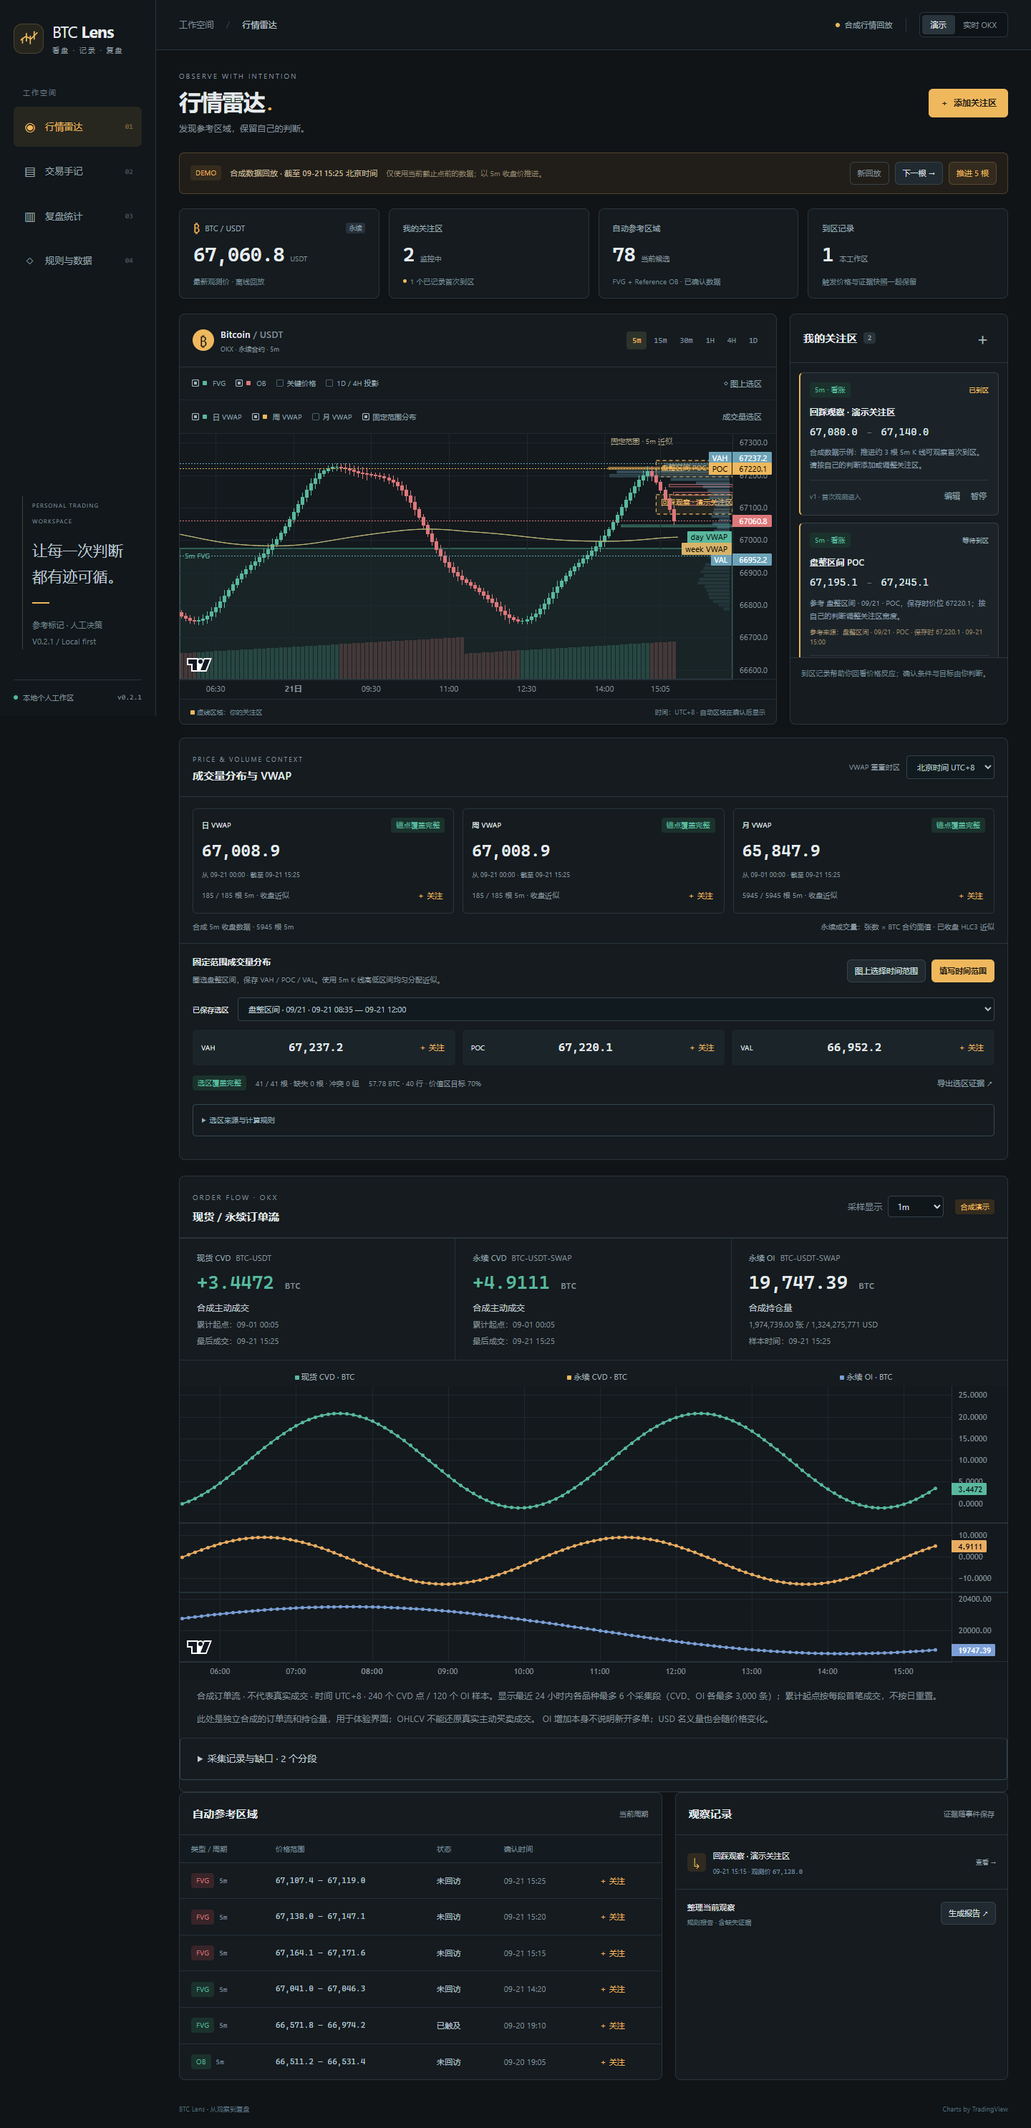
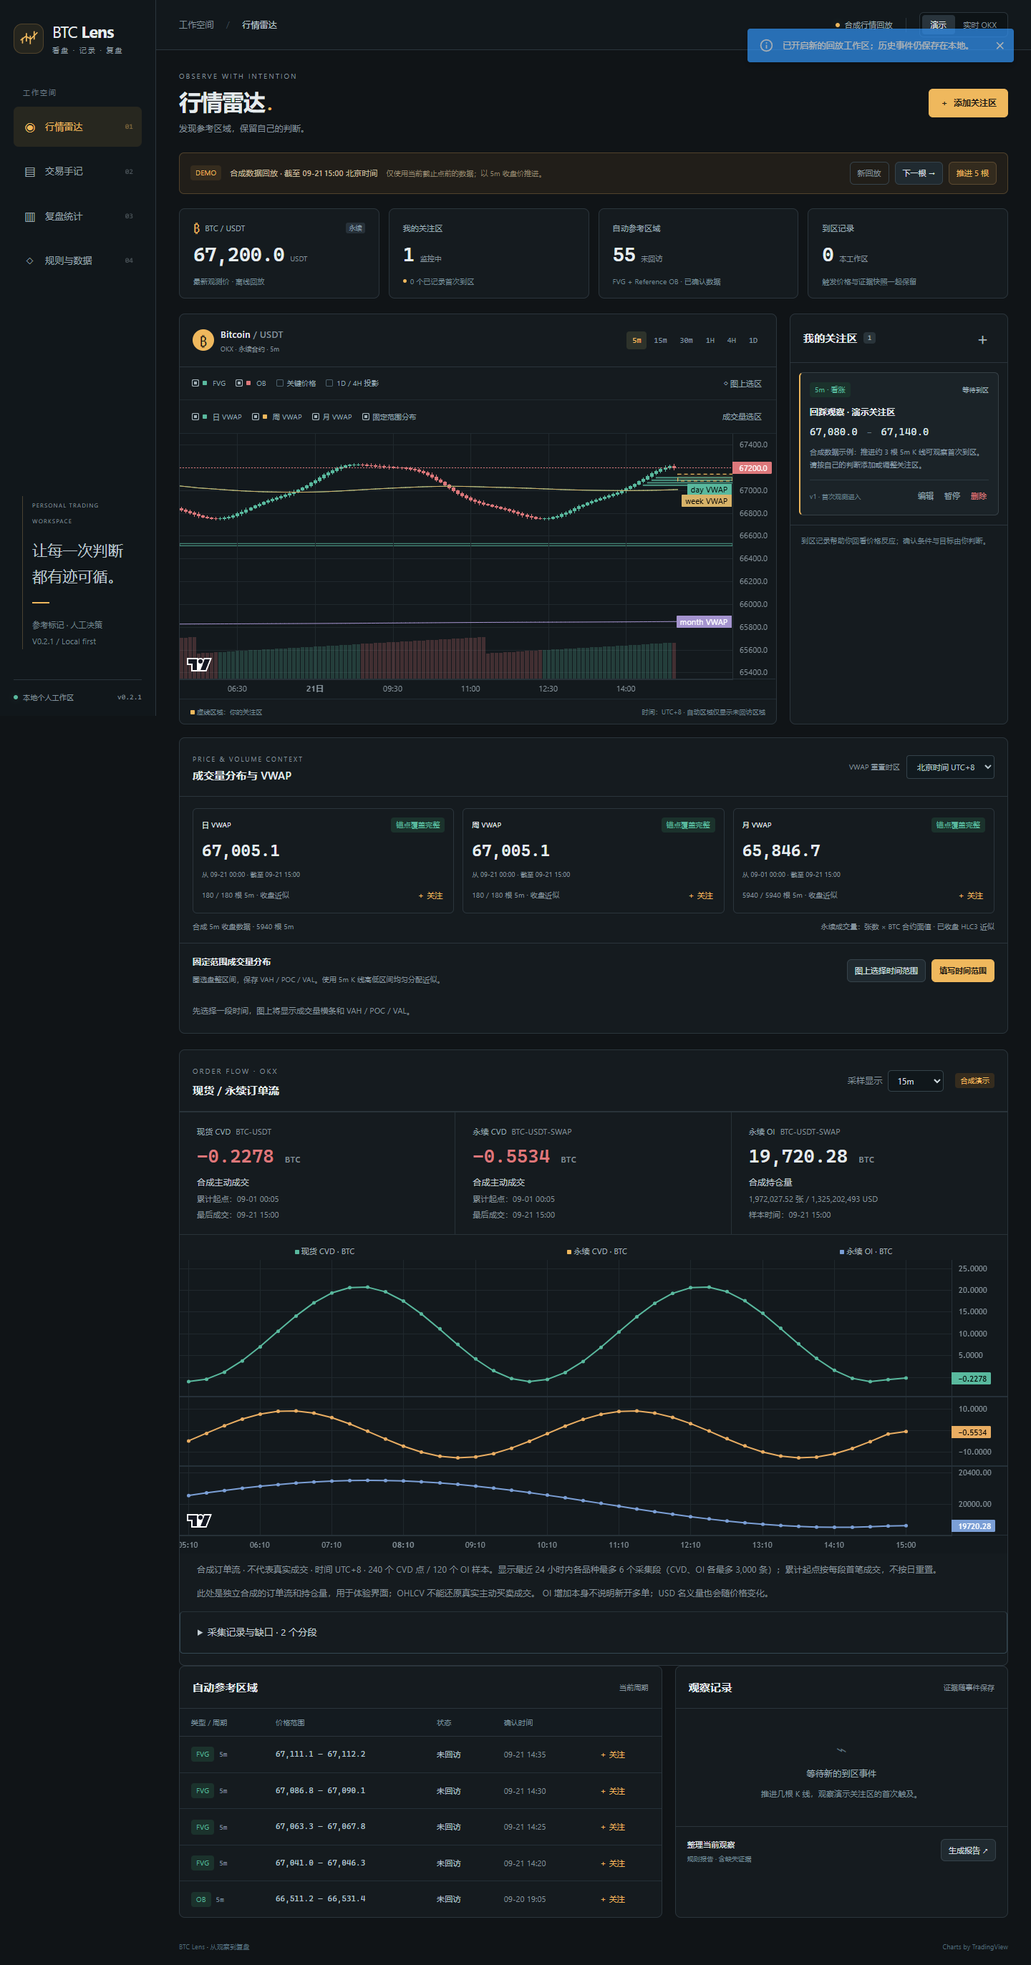
Hide used OB/FVG zones and add persistent watch deletion

diff --git a/tests/BtcLens.Tests/PersistenceTests.cs b/tests/BtcLens.Tests/PersistenceTests.cs
@@ -40,6 +40,64 @@ public sealed class PersistenceTests : IDisposable
         Assert.Equal(savedJson,s.FindAlert(a.Id)!.EvidenceJson); Assert.Equal(1,s.FindAlert(a.Id)!.Revision);
         await engine.NewReplayAsync(); Assert.NotEqual(oldScope,engine.View.Scope); Assert.Empty(s.Alerts(engine.View.Scope)); Assert.NotNull(s.FindAlert(a.Id));
     }
+    [Fact] public async Task DeletedWatchStopsMonitoringAndDoesNotReturnAfterRestart()
+    {
+        string scope;
+        using (var s = new LensStore(FilePath))
+        {
+            var engine = new MarketEngine(s, new OkxClient(new HttpClient()));
+            scope = engine.View.Scope; var watch = Assert.Single(s.Watches(scope));
+            await engine.SwitchModeAsync("live");
+            engine = new MarketEngine(s, new OkxClient(new HttpClient()));
+            await engine.SwitchModeAsync("demo");
+            await engine.DeleteWatchAsync(watch.Id, watch.Current.Revision, scope);
+            await engine.StepAsync(10);
+            Assert.Empty(s.Watches(scope)); Assert.Empty(s.Alerts(scope));
+            await Assert.ThrowsAsync<ArgumentException>(() => engine.SaveWatchAsync(watch.Id, 1, watch.Current));
+        }
+        using (var s = new LensStore(FilePath))
+        {
+            var engine = new MarketEngine(s, new OkxClient(new HttpClient()));
+            Assert.Equal(scope, engine.View.Scope); Assert.Empty(s.Watches(scope));
+            await engine.NewReplayAsync(); Assert.Single(s.Watches(engine.View.Scope));
+        }
+    }
+    [Fact] public async Task DeletionKeepsEventAndLinkedTradeAndRejectsLateWrites()
+    {
+        string scope, eventId, eventJson, tradeJson;
+        using (var s = new LensStore(FilePath))
+        {
+            var engine = new MarketEngine(s, new OkxClient(new HttpClient())); scope = engine.View.Scope;
+            var watch = Assert.Single(s.Watches(scope)); await engine.StepAsync(5);
+            var alert = Assert.Single(s.Alerts(scope)); eventId = alert.Id; eventJson = JsonCodec.Write(alert);
+            var trade = TradeTests.Example() with { Id = "linked", Mode = "demo", AlertId = eventId, EntrySnapshotJson = alert.EvidenceJson };
+            s.SaveTrade(trade); tradeJson = JsonCodec.Write(trade);
+            await engine.DeleteWatchAsync(watch.Id, 1, scope);
+            Assert.Empty(s.Watches(scope));
+            Assert.Throws<ArgumentException>(() => s.SaveWatch(watch));
+            Assert.False(s.RecordAlert(watch with { Triggered = true }, alert with { Id = eventId + ":late" }));
+            Assert.Single(s.Alerts(scope));
+        }
+        using (var s = new LensStore(FilePath))
+        {
+            var engine = new MarketEngine(s, new OkxClient(new HttpClient()));
+            Assert.Empty(s.Watches(scope));
+            Assert.Equal(eventJson, JsonCodec.Write(s.FindAlert(eventId)));
+            Assert.Equal(tradeJson, JsonCodec.Write(s.FindTrade("linked")));
+        }
+    }
+    [Fact] public async Task DeleteRejectsChangedRevisionAndDifferentWorkspace()
+    {
+        using var s = new LensStore(FilePath); var engine = new MarketEngine(s, new OkxClient(new HttpClient()));
+        var scope = engine.View.Scope; var watch = Assert.Single(s.Watches(scope));
+        await engine.SaveWatchAsync(watch.Id, 1, watch.Current with { Notes = "changed in another tab" });
+        await Assert.ThrowsAsync<ArgumentException>(() => engine.DeleteWatchAsync(watch.Id, 1, scope));
+        Assert.False(s.DeleteWatch("live", watch.Id, 2, DateTimeOffset.UtcNow));
+        Assert.Equal(2, Assert.Single(s.Watches(scope)).Current.Revision);
+        await engine.NewReplayAsync();
+        await Assert.ThrowsAsync<ArgumentException>(() => engine.DeleteWatchAsync(watch.Id, 2, scope));
+        Assert.Single(s.Watches(scope)); Assert.Single(s.Watches(engine.View.Scope));
+    }
     public void Dispose()
     {
         // Only remove the literal unique directory created by this test instance.

diff --git a/src/BtcLens.Infrastructure/LensStore.cs b/src/BtcLens.Infrastructure/LensStore.cs
@@ -28,8 +28,28 @@ public sealed class LensStore : ILensStore, IDisposable
     }
     public string? GetSetting(string key) { lock (sync) return db.Queryable<SettingRow>().InSingle(key)?.Value; }
     public void SetSetting(string key, string value) { lock (sync) db.Storageable(new SettingRow { Key = key, Value = value }).ExecuteCommand(); }
-    public WatchZone[] Watches(string scope) { lock (sync) return db.Queryable<WatchRow>().Where(x => x.Scope == scope).ToList().Select(x => JsonCodec.Read<WatchZone>(x.Json)).OrderByDescending(x => x.Current.CreatedAt).ToArray(); }
-    public void SaveWatch(WatchZone zone) { lock (sync) db.Storageable(Watch(zone)).ExecuteCommand(); }
+    public WatchZone[] Watches(string scope, bool includeDeleted = false) { lock (sync) return db.Queryable<WatchRow>().Where(x => x.Scope == scope).ToList().Select(x => JsonCodec.Read<WatchZone>(x.Json)).Where(x => includeDeleted || x.DeletedAt is null).OrderByDescending(x => x.Current.CreatedAt).ToArray(); }
+    public void SaveWatch(WatchZone zone)
+    {
+        lock (sync)
+        {
+            if (db.Queryable<WatchRow>().InSingle(zone.Id) is { } row && JsonCodec.Read<WatchZone>(row.Json).DeletedAt is not null)
+                throw new ArgumentException("关注区已删除，请重新建立关注区。");
+            db.Storageable(Watch(zone)).ExecuteCommand();
+        }
+    }
+    public bool DeleteWatch(string scope, string id, int expectedRevision, DateTimeOffset deletedAt)
+    {
+        lock (sync)
+        {
+            var row = db.Queryable<WatchRow>().InSingle(id);
+            if (row is null || row.Scope != scope) return false;
+            var zone = JsonCodec.Read<WatchZone>(row.Json);
+            if (zone.DeletedAt is not null || zone.Current.Revision != expectedRevision) return false;
+            db.Updateable(Watch(zone with { Enabled = false, LastSample = null, DeletedAt = deletedAt })).ExecuteCommand();
+            return true;
+        }
+    }
     public AlertEvent[] Alerts(string scope) { lock (sync) return db.Queryable<AlertRow>().Where(x => x.Scope == scope).OrderByDescending(x => x.Timestamp).Take(200).ToList().Select(x => JsonCodec.Read<AlertEvent>(x.Json)).ToArray(); }
     public AlertEvent? FindAlert(string id) { lock (sync) { var row = db.Queryable<AlertRow>().InSingle(id); return row is null ? null : JsonCodec.Read<AlertEvent>(row.Json); } }
     public bool RecordAlert(WatchZone updated, AlertEvent alert)
@@ -39,7 +59,9 @@ public sealed class LensStore : ILensStore, IDisposable
             db.Ado.BeginTran();
             try
             {
-                if (db.Queryable<AlertRow>().InSingle(alert.Id) is not null) { db.Ado.CommitTran(); return false; }
+                if (db.Queryable<AlertRow>().InSingle(alert.Id) is not null ||
+                    db.Queryable<WatchRow>().InSingle(updated.Id) is { } row && JsonCodec.Read<WatchZone>(row.Json).DeletedAt is not null)
+                { db.Ado.CommitTran(); return false; }
                 db.Insertable(new AlertRow { Id = alert.Id, Scope = alert.Scope, Timestamp = alert.CreatedAt.ToUnixTimeMilliseconds(), Json = JsonCodec.Write(alert) }).ExecuteCommand();
                 db.Storageable(Watch(updated)).ExecuteCommand();
                 db.Ado.CommitTran(); return true;

diff --git a/tests/BtcLens.Tests/IndicatorTests.cs b/tests/BtcLens.Tests/IndicatorTests.cs
@@ -1,5 +1,6 @@
 using BtcLens.Core;
 using BtcLens.Infrastructure;
+using BtcLens.Application;
 
 namespace BtcLens.Tests;
 public sealed class IndicatorTests
@@ -34,6 +35,24 @@ public sealed class IndicatorTests
         Assert.Equal(ZoneLife.Touched, touched.Life);
         var filled = Assert.Single(Indicators.Detect([.. bars, Bar(3, 118, 119, 105, 109)], bars[^1].CloseTime + 300_000), z => z.KnownAt == bars[^1].CloseTime);
         Assert.Equal(ZoneLife.Filled, filled.Life);
+    }
+    [Theory]
+    [InlineData(ZoneKind.Fvg)]
+    [InlineData(ZoneKind.OrderBlock)]
+    public void ReportDropsUsedZoneOnlyAfterReturnBarClosesAndRetainsLifecycleEvidence(ZoneKind kind)
+    {
+        Candle[] bars = kind == ZoneKind.Fvg
+            ? [.. FvgBars(), Bar(3, 118, 119, 108, 112)]
+            : [Bar(0,100,104,96,101), Bar(1,101,106,98,104), Bar(2,104,110,100,105),
+               Bar(3,105,107,99,102), Bar(4,102,106,98,103), Bar(5,103,108,97,101),
+               Bar(6,101,112,100,111), Bar(7,111,112,107,111)];
+        var before = MarketView.Empty with { Cutoff = bars[^1].CloseTime - 1, Zones = Indicators.Detect(bars, bars[^1].CloseTime - 1, 2) };
+        var zone = Assert.Single(before.Zones, z => z.Kind == kind);
+        Assert.Equal(ZoneLife.Active, zone.Life);
+        Assert.Contains(AnalysisReport.Build(before, []).Observations, o => o.Contains(zone.Id));
+        var after = before with { Cutoff = bars[^1].CloseTime, Zones = Indicators.Detect(bars, bars[^1].CloseTime, 2) };
+        Assert.Equal(ZoneLife.Touched, Assert.Single(after.Zones, z => z.Id == zone.Id).Life);
+        Assert.DoesNotContain(AnalysisReport.Build(after, []).Observations, o => o.Contains(zone.Id));
     }
     [Fact] public void GapMakesExistingLifecycleUnknownAndDoesNotCreateBridgedFvg()
     {

diff --git a/src/BtcLens.Application/Contracts.cs b/src/BtcLens.Application/Contracts.cs
@@ -6,8 +6,9 @@ public interface ILensStore
 {
     string? GetSetting(string key);
     void SetSetting(string key, string value);
-    WatchZone[] Watches(string scope);
+    WatchZone[] Watches(string scope, bool includeDeleted = false);
     void SaveWatch(WatchZone zone);
+    bool DeleteWatch(string scope, string id, int expectedRevision, DateTimeOffset deletedAt);
     AlertEvent[] Alerts(string scope);
     AlertEvent? FindAlert(string id);
     bool RecordAlert(WatchZone updated, AlertEvent alert);
@@ -44,7 +45,7 @@ public static class AnalysisReport
         if (market.Quote is not null) facts.Add($"BTC-USDT-SWAP 最新观测价 {market.Quote.Price:0.0}；价格时间 {DateTimeOffset.FromUnixTimeMilliseconds(market.Quote.Timestamp):O}。");
         foreach (var w in watches.Where(w => w.Enabled).Take(8))
             facts.Add($"关注区「{w.Current.Name}」{w.Current.Timeframe}，{w.Current.Lower:0.0}–{w.Current.Upper:0.0}，版本 {w.Current.Revision}；{(w.Triggered ? "已记录首次到区" : "等待新的到区事件")}。");
-        foreach (var z in market.Zones.Where(z => z.Life is ZoneLife.Active or ZoneLife.Touched).OrderByDescending(z => z.KnownAt).Take(6))
+        foreach (var z in market.Zones.Where(z => z.Life == ZoneLife.Active).OrderByDescending(z => z.KnownAt).Take(6))
             facts.Add($"{z.Timeframe} {z.Kind} {z.Bias}，{z.Lower:0.0}–{z.Upper:0.0}，确认时间 {DateTimeOffset.FromUnixTimeMilliseconds(z.KnownAt):O}，算法 {z.Algorithm}；证据 ID {z.Id}。");
         var missing = new List<string> { "主目标及其来源资格尚未人工确认。", "Sweep、SFP 与有效 MSB 的个人规则尚待逐项定义。" };
         foreach (var v in market.PriceContext.Vwaps)

diff --git a/src/BtcLens.Core/Watch.cs b/src/BtcLens.Core/Watch.cs
@@ -6,7 +6,10 @@ public sealed record WatchVersion(int Revision, string Name, decimal Lower, deci
     public PriceReference? PriceReference { get; init; }
 }
 public sealed record WatchZone(string Id, string Scope, bool Enabled, bool Triggered,
-    WatchVersion Current, WatchVersion[] History, PriceSample? LastSample = null);
+    WatchVersion Current, WatchVersion[] History, PriceSample? LastSample = null)
+{
+    public DateTimeOffset? DeletedAt { get; init; }
+}
 public sealed record AlertEvent(string Id, string Scope, string WatchId, int Revision,
     DateTimeOffset CreatedAt, decimal Price, string Transport, WatchVersion Zone,
     string Summary, string EvidenceJson);
@@ -24,7 +27,7 @@ public static class WatchRules
     public static bool Inside(WatchVersion z, decimal price) => price >= z.Lower && price <= z.Upper;
     public static bool Entered(WatchZone z, PriceSample current, long now, bool continuity, long maximumSampleGap = 30_000)
     {
-        if (!z.Enabled || z.Triggered || !continuity || current.Price <= 0 || current.Timestamp > now + 5000 || now - current.Timestamp > 30_000) return false;
+        if (z.DeletedAt is not null || !z.Enabled || z.Triggered || !continuity || current.Price <= 0 || current.Timestamp > now + 5000 || now - current.Timestamp > 30_000) return false;
         var previous = z.LastSample;
         if (previous is null || previous.Timestamp < z.Current.CreatedAt.ToUnixTimeMilliseconds() ||
             current.Timestamp <= previous.Timestamp || current.Timestamp - previous.Timestamp > maximumSampleGap) return false;

diff --git a/src/BtcLens.Infrastructure/MarketEngine.cs b/src/BtcLens.Infrastructure/MarketEngine.cs
@@ -261,6 +261,19 @@ public sealed class MarketEngine
         finally { gate.Release(); }
         Notify();
     }
+    public async Task DeleteWatchAsync(string id, int expectedRevision, string expectedScope)
+    {
+        await gate.WaitAsync();
+        try
+        {
+            if (view.Scope != expectedScope) throw new ArgumentException("工作区已变化，请刷新后再删除关注区。");
+            if (!store.DeleteWatch(view.Scope, id, expectedRevision, DateTimeOffset.FromUnixTimeMilliseconds(view.Cutoff)))
+                throw new ArgumentException("关注区已变化或已删除，请刷新后重试。");
+            foreach (var key in samples.Keys.Where(key => key.StartsWith(id + ":", StringComparison.Ordinal)).ToArray()) samples.Remove(key);
+        }
+        finally { gate.Release(); }
+        Notify();
+    }
     private void ProcessQuote(PriceSample quote, bool continuity)
     {
         foreach (var w in store.Watches(view.Scope))
@@ -292,7 +305,7 @@ public sealed class MarketEngine
     }
     private void SeedWatch()
     {
-        if (store.Watches(view.Scope).Length > 0) return;
+        if (store.Watches(view.Scope, includeDeleted: true).Length > 0) return;
         var v = new WatchVersion(1, "回踩观察 · 演示关注区", 67080, 67140, "5m", Bias.Bullish,
             "合成数据示例：推进约 3 根 5m K 线可观察首次到区。请按自己的判断添加或调整关注区。", null,
             DateTimeOffset.FromUnixTimeMilliseconds(view.Cutoff));

diff --git a/docs/VERIFICATION.md b/docs/VERIFICATION.md
@@ -5,8 +5,8 @@ V0.2.1 验证日期：2026-10-11，Windows，.NET SDK 10.0.401，Edge / Playwrig
 | 本轮检查 | 结果 |
 |---|---|
 | Release 构建与发布 | 0 警告 / 0 错误 |
-| xUnit 全部测试 | 59 / 59 通过 |
-| 发布包浏览器流程 | 原有 9 组 + 价格与成交量参考 7 组，0 浏览器错误 |
+| xUnit 全部测试 | 64 / 64 通过 |
+| 发布包浏览器流程 | 核心操作 11 组 + 价格与成交量参考 7 组，0 浏览器错误 |
 | 真实 OKX 历史与重启缓存 | 冷启动补齐 3,038 根 5m；发布包重启复用缓存并更新至 3,039 根；UTC / UTC+8 均覆盖完整日/周/月锚点 |
 | 真实数据选区与导出 | 最近 6 小时共 72 根，40 行，3,738.8580 BTC；原始证据、刷新持久化通过 |
 | 独立 Decimal 复算 | 真实选区分配、源摘要及 cutoff 通过；日 159 根、周 1,887 根、月 3,039 根的加权和、BTC 总量、VWAP 与 SHA-256 均匹配 |
@@ -17,6 +17,8 @@ V0.2.1 验证日期：2026-10-11，Windows，.NET SDK 10.0.401，Edge / Playwrig
 新增测试覆盖整行价值区与并列规则、总量守恒、平价和零成交量、重复与冲突、无效/缺失数据、已确认截止点、周一/月历/时区边界、跨周期重置、选区冻结、旧快照不变，以及拒绝导出未来值或事后选区。历史分页测试检查游标单调推进、两种时区起点与重启缓存复用。
 
 历史缓存测试使用可控时钟，分别验证同一收盘截止点重启无需回补，以及推进 5 分钟后增量补取新收盘 K 线。
+
+本轮 OB / FVG 与关注区修复增加 5 个测试用例：回访 K 线收盘前仍保留候选、收盘后报告排除已使用区域但保留生命周期；删除后停止监控、刷新与重启不补建；拒绝旧版本与其他工作区删除、滞后编辑及提醒重新写入；事件和关联交易原始 JSON 保持不变。浏览器新增删除、刷新、旧事件/交易关联与未回访候选检查，手动选区也可独立删除。
 
 独立脚本 `tools/audit-price-context.py` 直接读取导出 JSON 与 SQLite，使用 Python Decimal，不调用应用计算代码。上面的数量是该次验证覆盖量，后续行情会继续增加。真实网络检查不纳入离线 CI。
 

diff --git a/README.md b/README.md
@@ -40,7 +40,7 @@ dotnet run --project src/BtcLens.Web
 ## 已实现的闭环
 
 1. **观察行情**：1D、4H、1H、30m、15m、5m 图表；已确认的基础 FVG、参考 OB；前日/前周高低及当日开盘。
-2. **选择关注区**：从自动区域加入关注、图上两点选区、手动编辑边界与备注。大周期关注区可在低周期图中显示。
+2. **选择关注区**：从自动区域加入关注、图上两点选区、编辑、暂停或删除。大周期关注区可在低周期图中显示。
 3. **持续监控**：首次观测进入区域时，保存价格、版本和当时证据。同一版本去重，重启后保留。
 4. **记录交易**：多空、实际成交价、BTC 数量、初始止损、目标、手续费、资金费、PNG/JPEG 截图。
 5. **复盘**：开仓理由、复盘文字、标签、提醒关联与记录时行情快照。
@@ -76,6 +76,8 @@ dotnet run --project src/BtcLens.Web
 - 先按截止时间截断，再计算。未收盘 K 线可显示，确认检测只使用已收盘数据。历史缺口使依赖该段连续数据的区域状态变为未知。
 - 储存 UTC 时间，图表和界面显示 UTC+8。日/周关键价格使用 OKX 原生周期；缺少对应前一周期时不拿更早数据替代。
 - 自动区域与手动关注区各自保存。编辑关注区会建立新版本，并显式启用新一轮首次到区监控；旧事件使用原版本。
+- 自动 OB / FVG 只显示未回访区域。后续已收盘 K 线触及边界或进入区域后，从图表、候选和当前报告移除；原生命周期证据继续保留。
+- 删除关注区会移除列表与图上标记并停止监控；刷新、重启后也不会恢复。既有到区事件、交易关联及快照仍可查看。
 - 提醒指「先观测在区外，随后观测在区内」。启动时已经在区内、重复价格时间、断线后首个样本不会补造进入事件。实时观测间隔大于 30 秒后重新建立连续观测。
 - REST 轮询可能漏掉两次请求间的短暂触及。监控要求后台进程持续运行。
 

diff --git a/docs/RULES.md b/docs/RULES.md
@@ -30,6 +30,12 @@
 
 没有复制 LuxAlgo 的区间极值 OB 选取、波动过滤、完整 BOS/CHoCH 或 FVG 阈值算法。基础检测结果不自动具备 Primary Target、有效 Sweep 或个人 setup 资格。
 
+## 自动区域显示与关注区删除
+
+图表、自动候选列表、候选计数和当前观察报告只显示 Active（未回访）的自动 OB / FVG。后续已收盘 K 线的高低范围与区域相交（含边界）即视为已使用；Touched、Filled、Invalidated、Unknown 均不再显示。形成区域的 K 线不算回访，未收盘 K 线不提前改变确认状态。
+
+检测器保留完整生命周期，已保存的到区事件仍保留当时的来源区域。手动关注区独立管理；点击「删除」后移除列表与图表标记并停止监控，既有事件、交易和快照继续保留。
+
 ## 缺口
 
 相邻输入 K 线须满足前一 CloseTime=后一 OpenTime。出现缺口后，新连续段重新积累三根 FVG 或摆动窗口。未终止的旧区域状态转为 Unknown；不把缺失时段解释成没有触及。

diff --git a/docs/ARCHITECTURE.md b/docs/ARCHITECTURE.md
@@ -48,6 +48,7 @@ Scope=live 用于真实行情关注区；每个演示回放使用独立 demo:会
 - 参考 OB：Active → Touched → Invalidated。
 - 已形成区域的后续数据断档：Unknown。
 - 关注区：Enabled 与 Triggered 分别保存；暂停不改写历史；编辑建立新版本并重新启用。
+- 关注区删除使用 DeletedAt 标记，查询与监控排除已删除对象；按 Scope 与版本校验删除，拒绝滞后编辑或提醒重新写入。演示关注区按会话只初始化一次，删除最后一个后重启也不补建；旧事件及交易快照不改写。
 - 首次到区事件键：Scope + WatchId + Revision + RuleVersion。
 - CSV 交易键：SHA-256(Mode + external_id)，不同模式分别去重。
 
